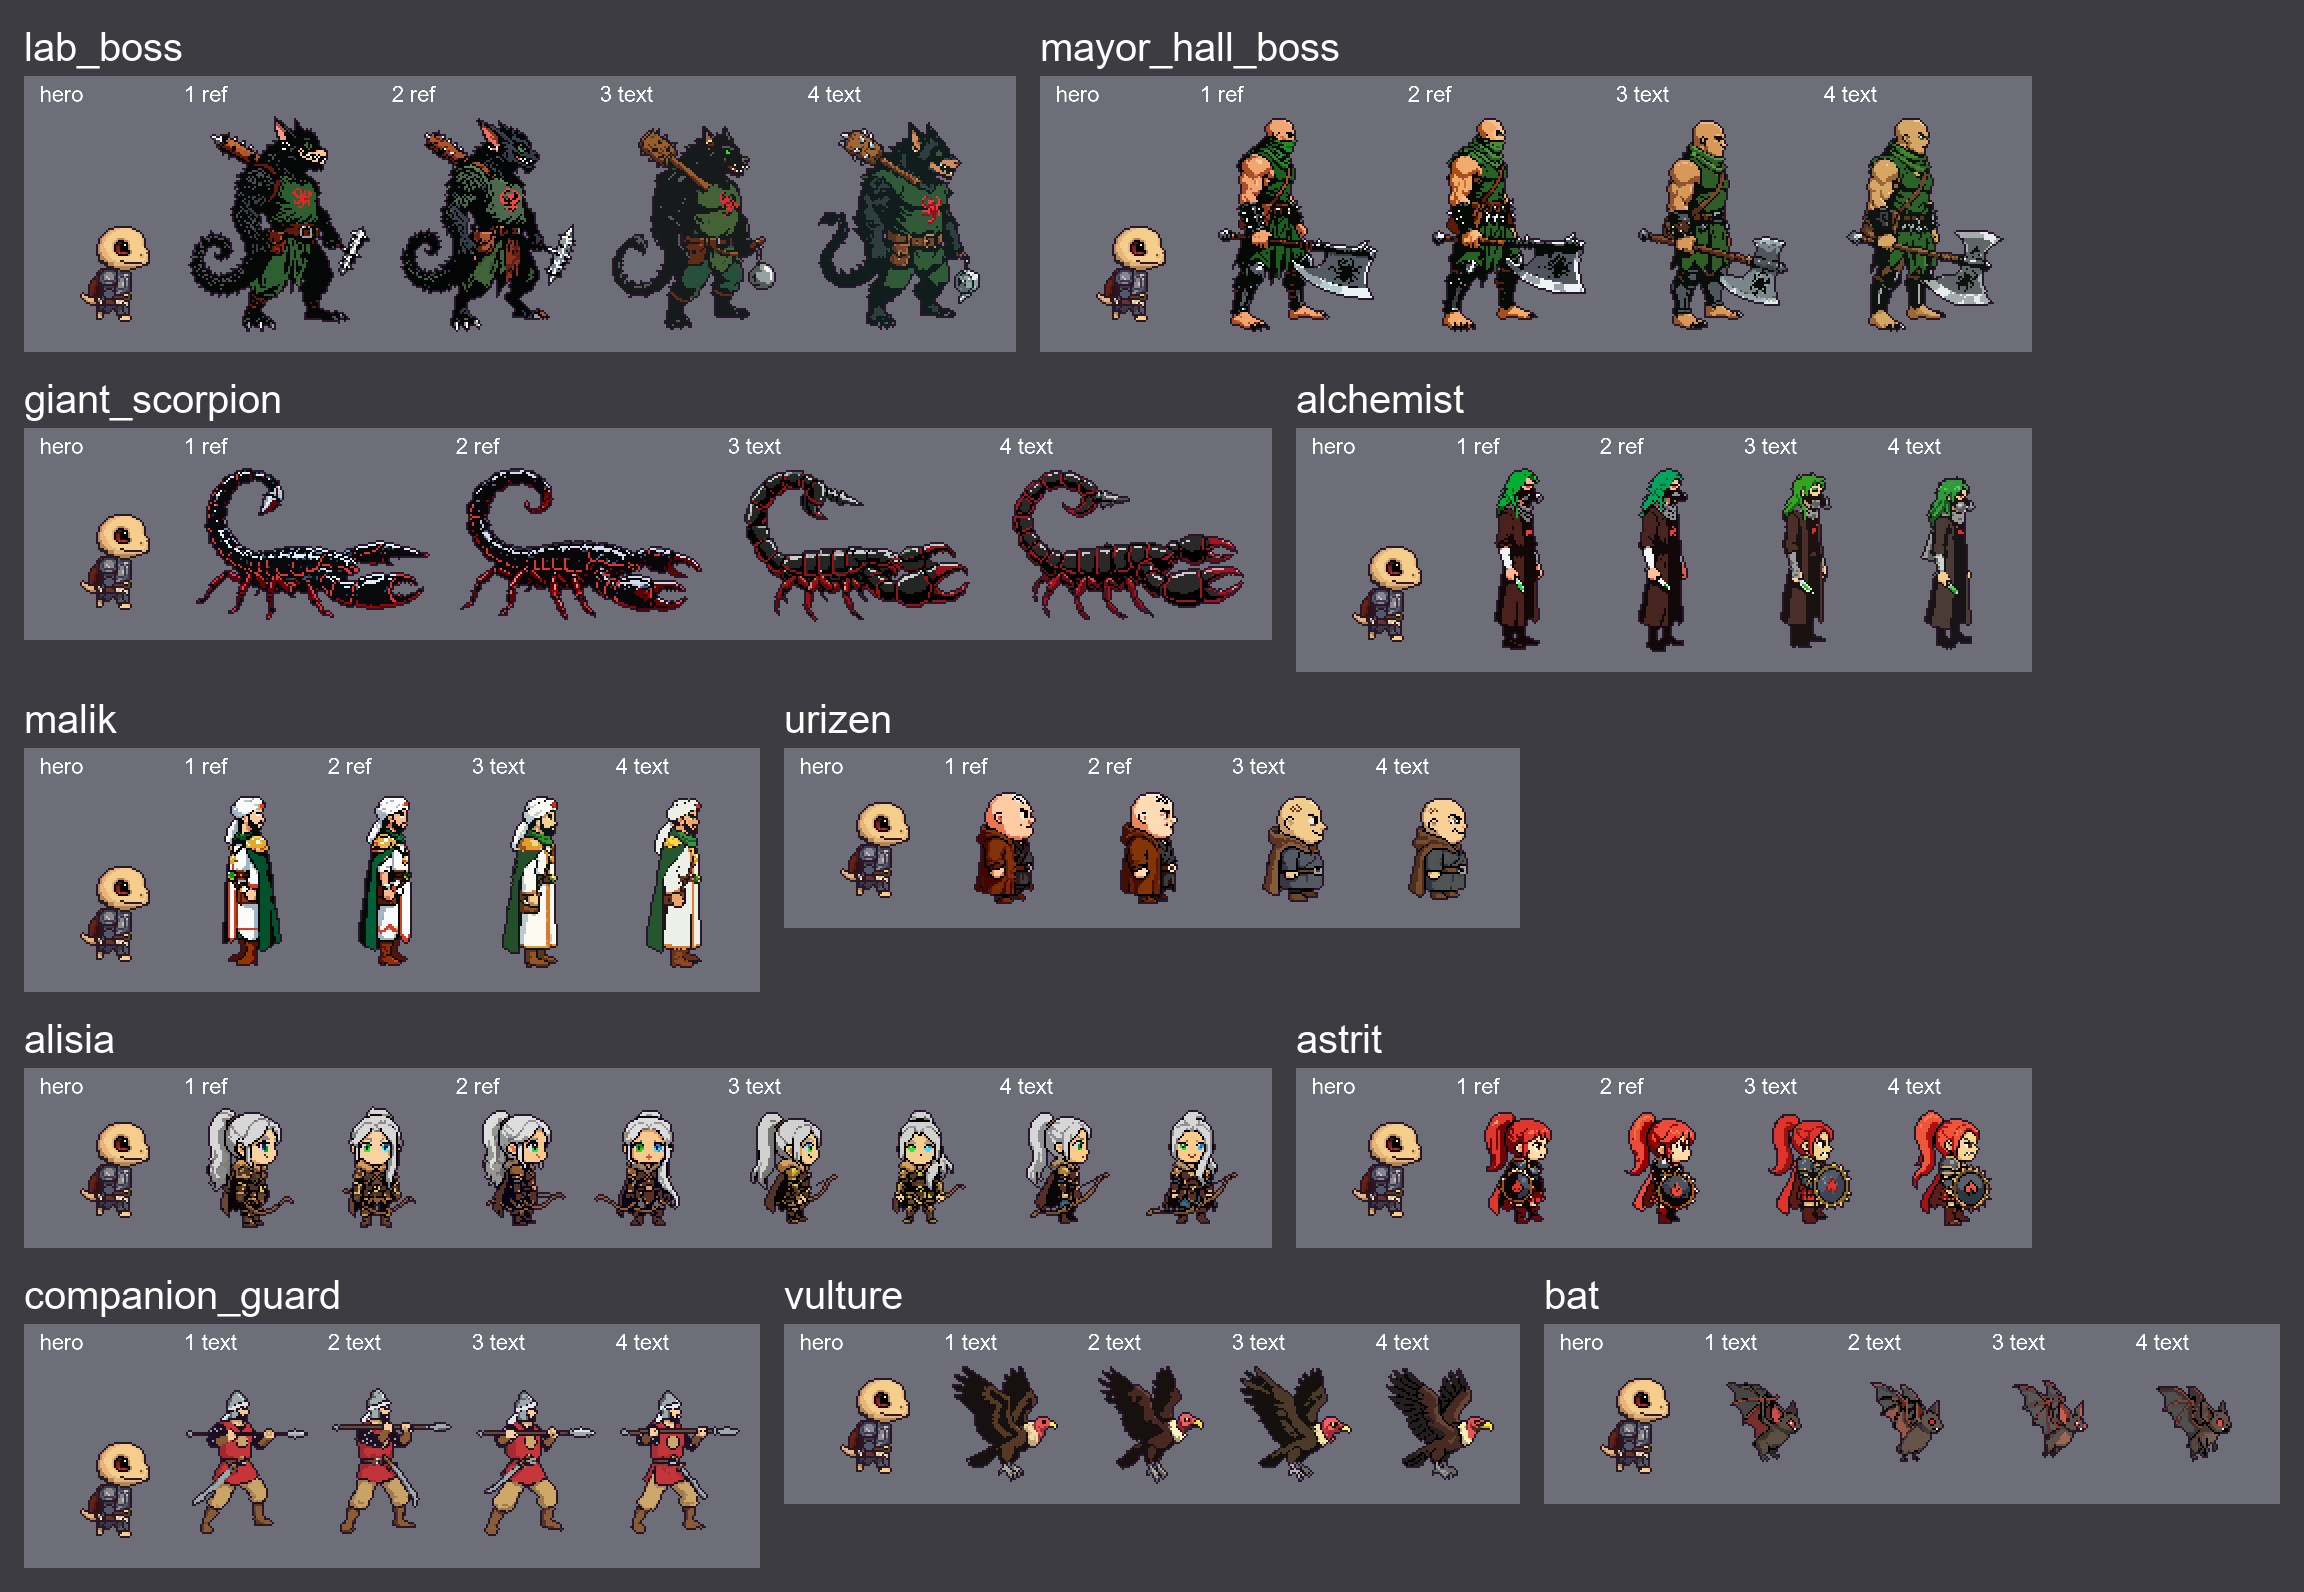
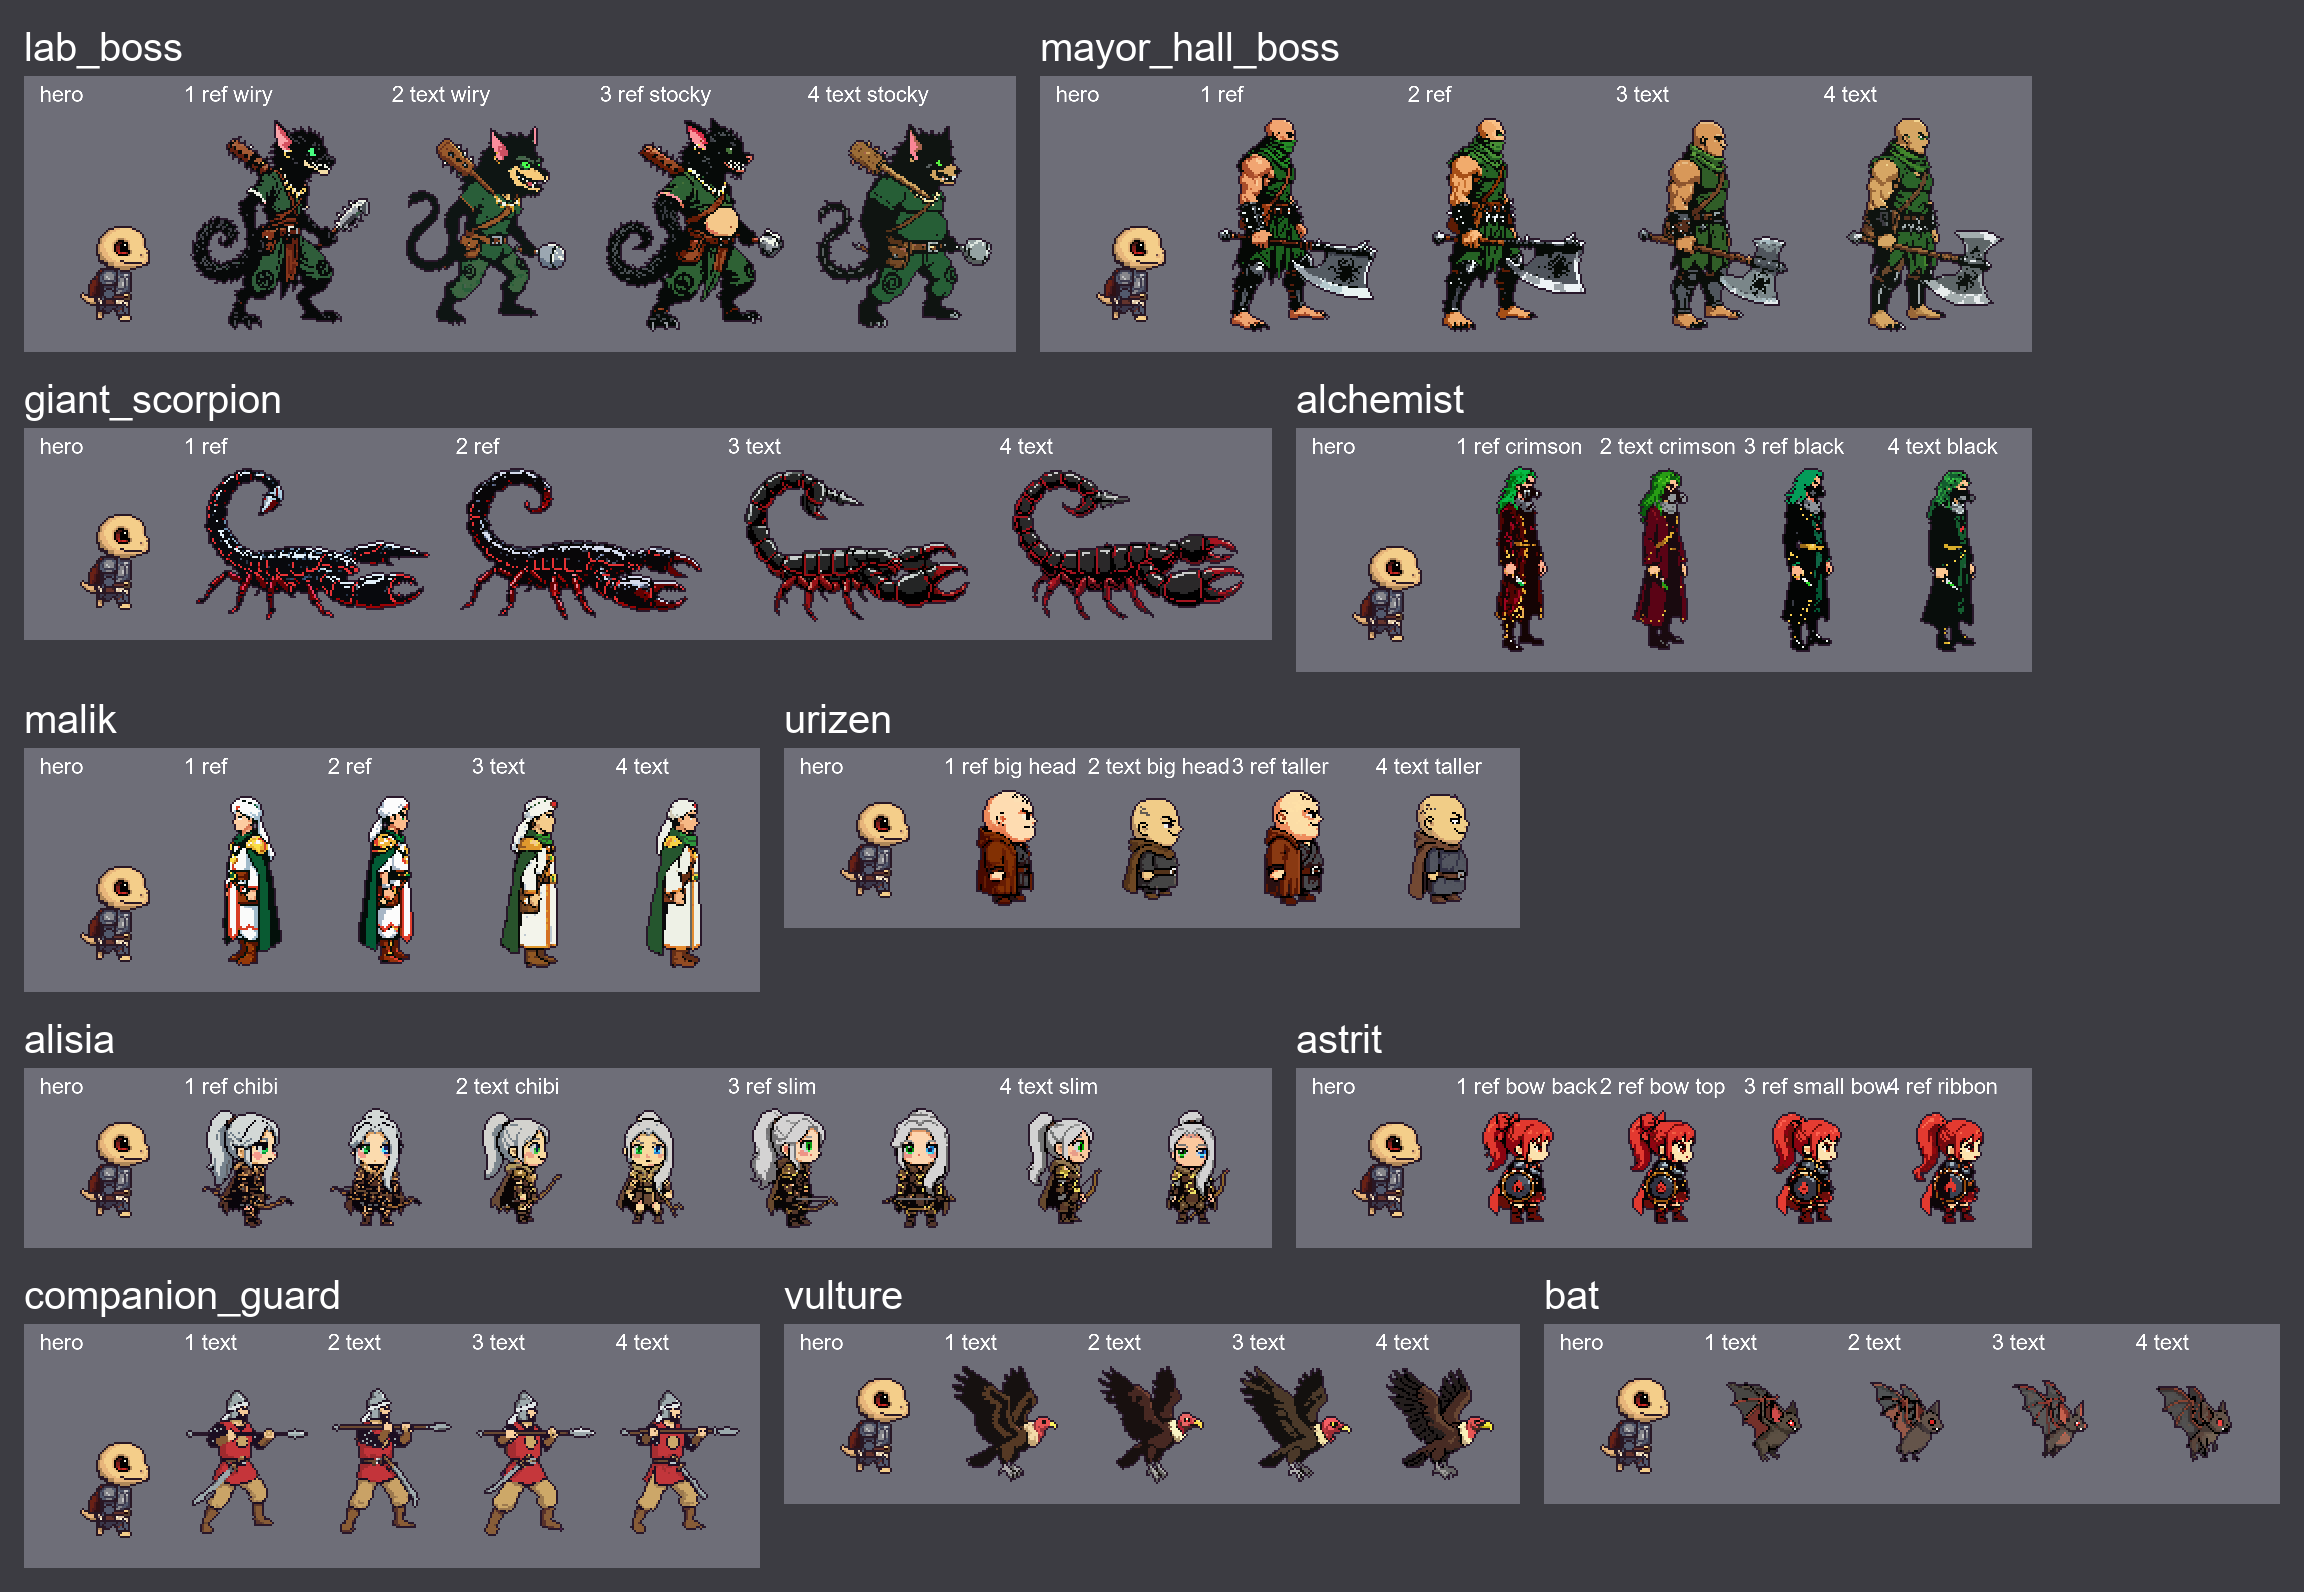
D595: Astrit candidate 2, red bow on top (Sapega: perfect)
Claude-Session: https://claude.ai/code/session_01A2gnDWaoeJGbj3GPH4dnCF

diff --git a/Scripts/Tools/comfy_sprite.py b/Scripts/Tools/comfy_sprite.py
@@ -2207,7 +2207,8 @@ CHARACTERS = {
         ),
         ref="SampleProject/Sprites/Player/Walk/1.png",
         design="assets/references/npcs/astrit_v2.png",
-        seed=85,
+        seed=85,  # D595: обрано 2 (ref, бант зверху) — «ідеальний»
+        direction=BOW_TOP,
         colors=16,
         who="the same fierce red-haired barbarian woman with the high ponytail and the red ribbon bow, the scowl, the dark "
         "steel plate armour with bronze trim, the red plaid skirt, the red cape and the round spiked shield",

diff --git a/design/figma_decision_register.md b/design/figma_decision_register.md
@@ -749,3 +749,4 @@ The end screen is drawn in Figma first (#54's "demo end screen", Claude draws). 
 | D592 | OVERRIDE | **More builds: rings and amulets, armour weight, and a respec that costs** (Sapega, 2026-10-23, picking three of four; "one of two per row" was not taken). **Charms:** 2–3 slots for rings and amulets that change a rule ("a parry heals", "no block, but a longer roll"), as Hollow Knight's charms do. **Armour weight:** light armour gives a longer roll; heavy armour gives more defence and a shorter roll. With no stamina (D551) this is the weight trade-off. **Respec:** no longer free (reverses D490's "free for now"); it costs gold and is done at a meditation spot (D447). The oath stays permanent (D570). Numbers come in their plans. |
 | D593 | OVERRIDE | **Freeing villagers in the bandit camp comes after the demo** (Sapega, 2026-10-23: «ні, це після демо»). In the demo the camp holds the hard group fight and the chest of stolen goods (D583's curiosity map), with no captives. |
 | D594 | OVERRIDE | **Alisia: candidate 1, as drawn** (Sapega, 2026-10-23: «Алісія 1 ідеальна»). The chibi-proportioned candidate made from his reference: seed 107, with `design`, direction `CHIBI`. It is kept as it is, including its view; the three-quarter turn of D591 is not applied to her. Her full frames (idle, enter, strike and the front-view portrait) come from it. |
+| D595 | OVERRIDE | **Astrit: candidate 2, the red bow on top, as drawn** (Sapega, 2026-10-23, with the picture: «цей ідеальний»). The bow-on-top candidate made from his first reference: seed 85, with `design`, direction `BOW_TOP`. The bow stays red as drawn, and her view stays as drawn. Her full frames (idle, enter, strike, the front-view portrait) come from it. |
